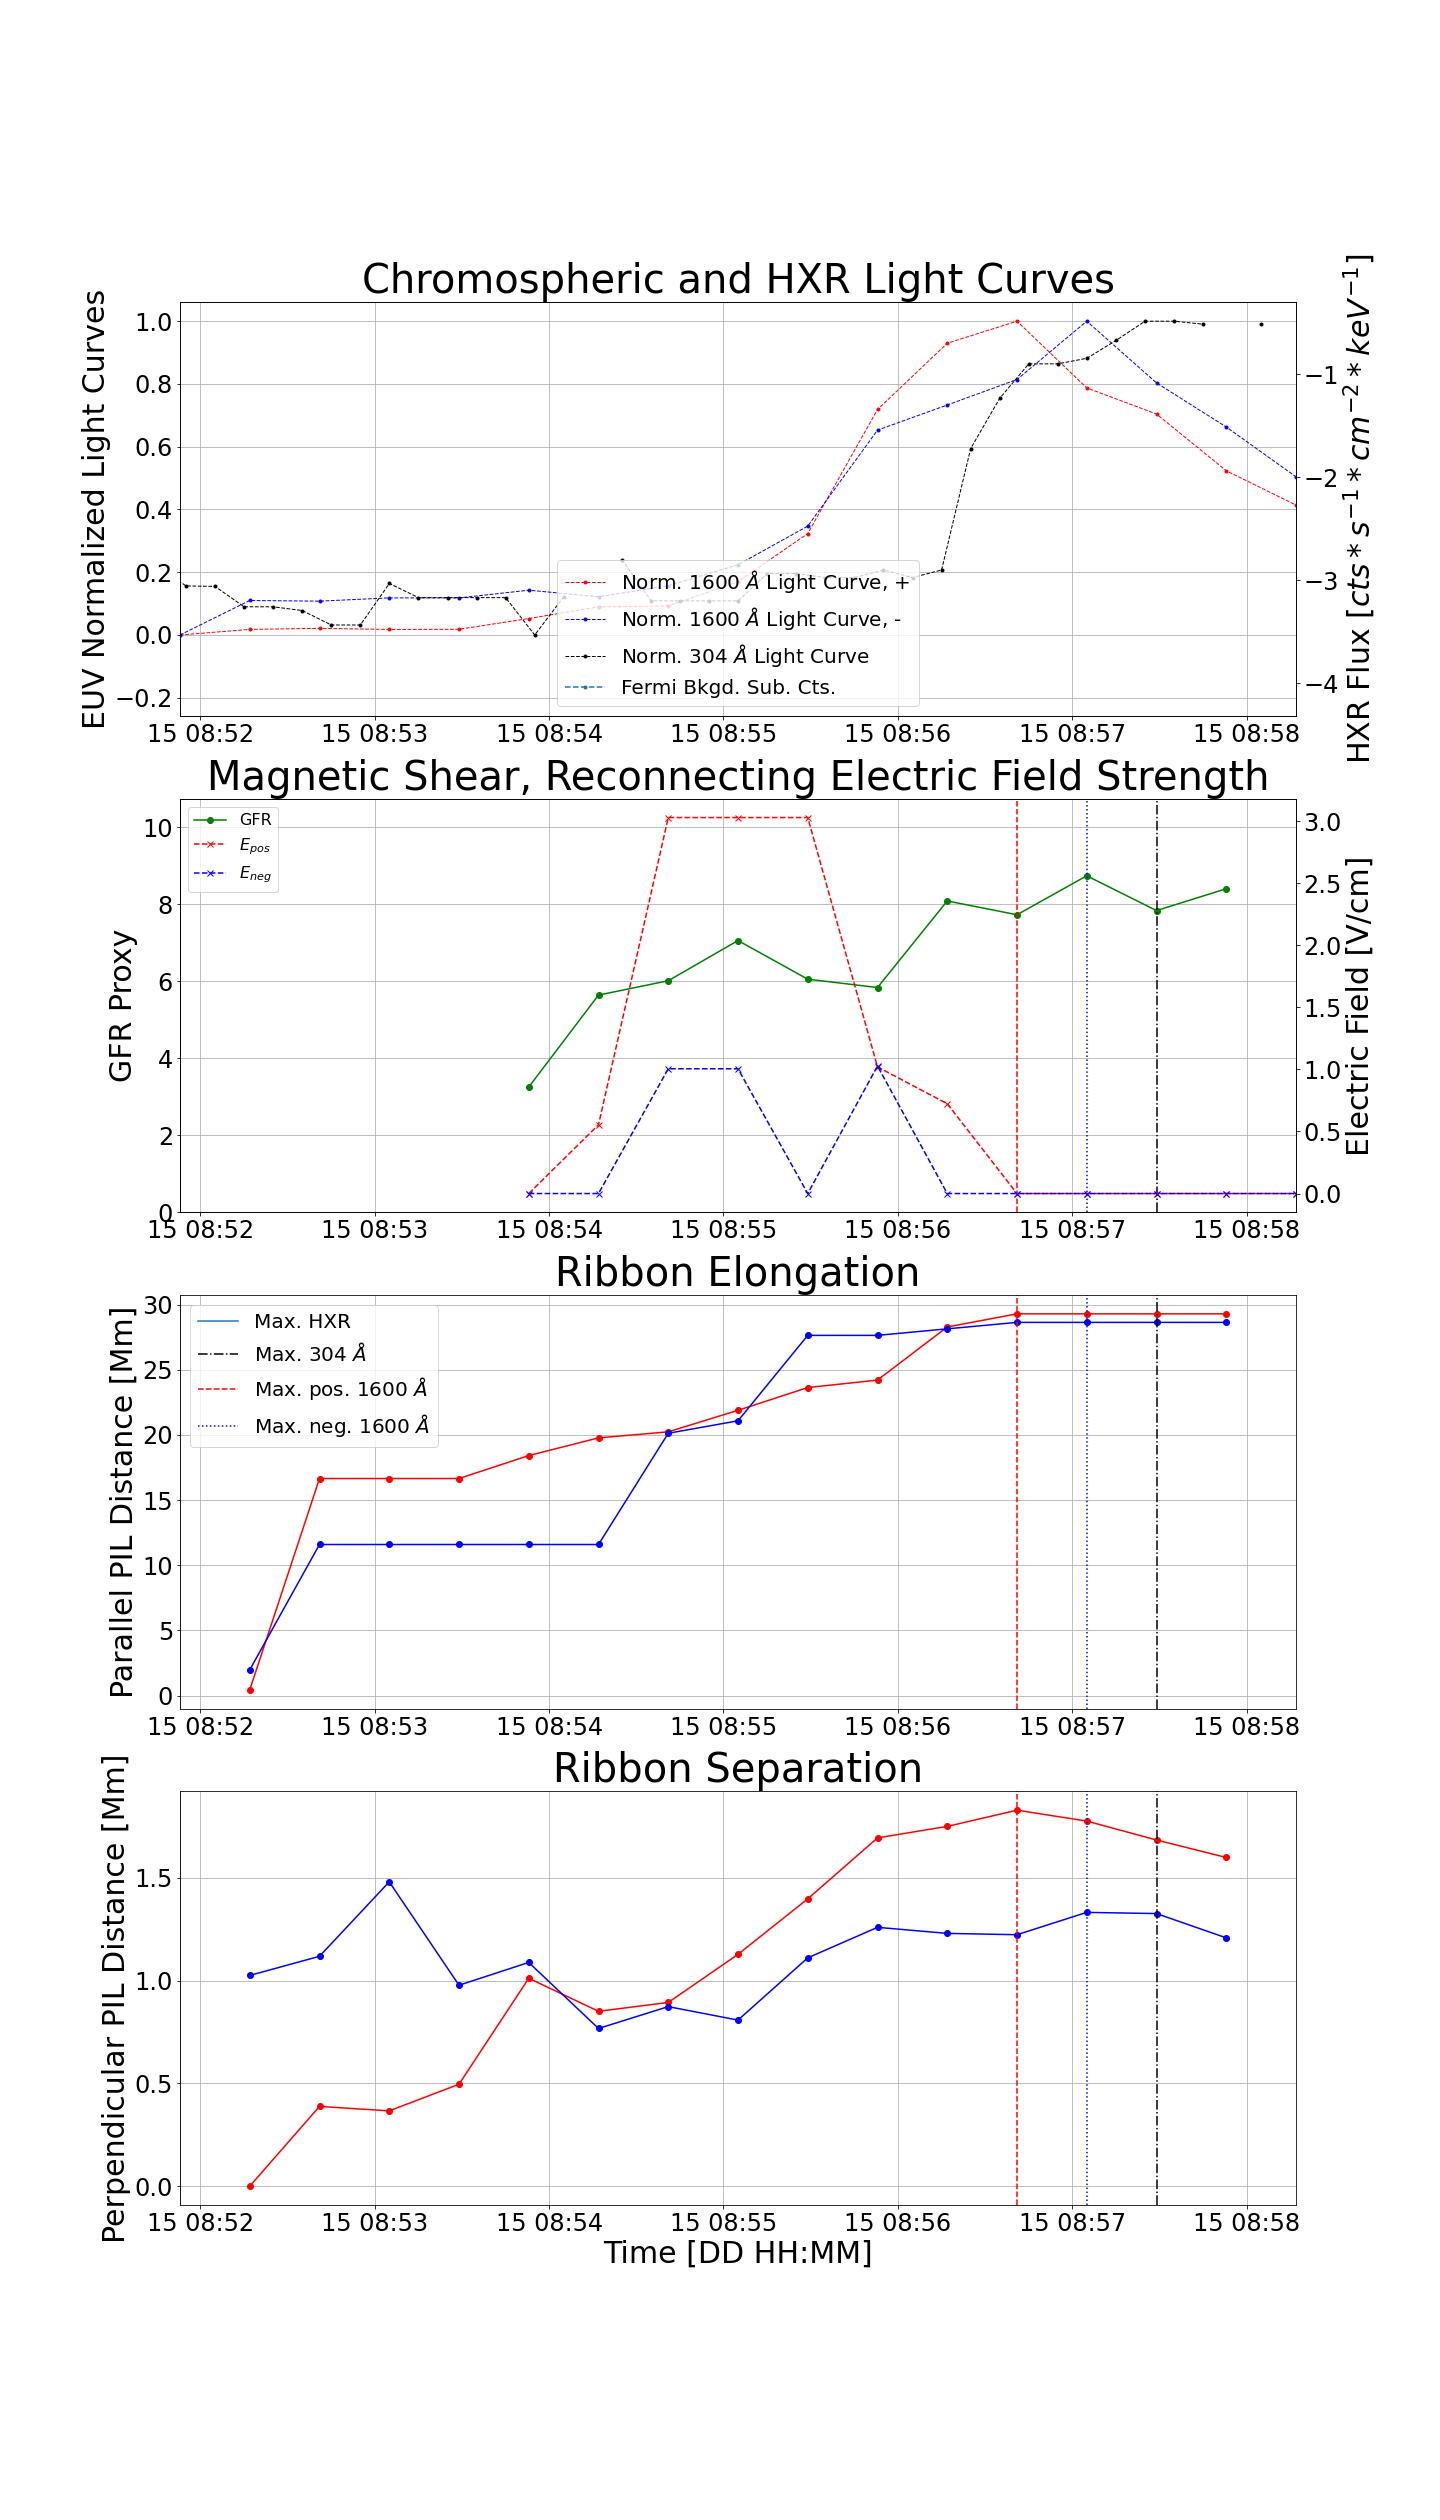
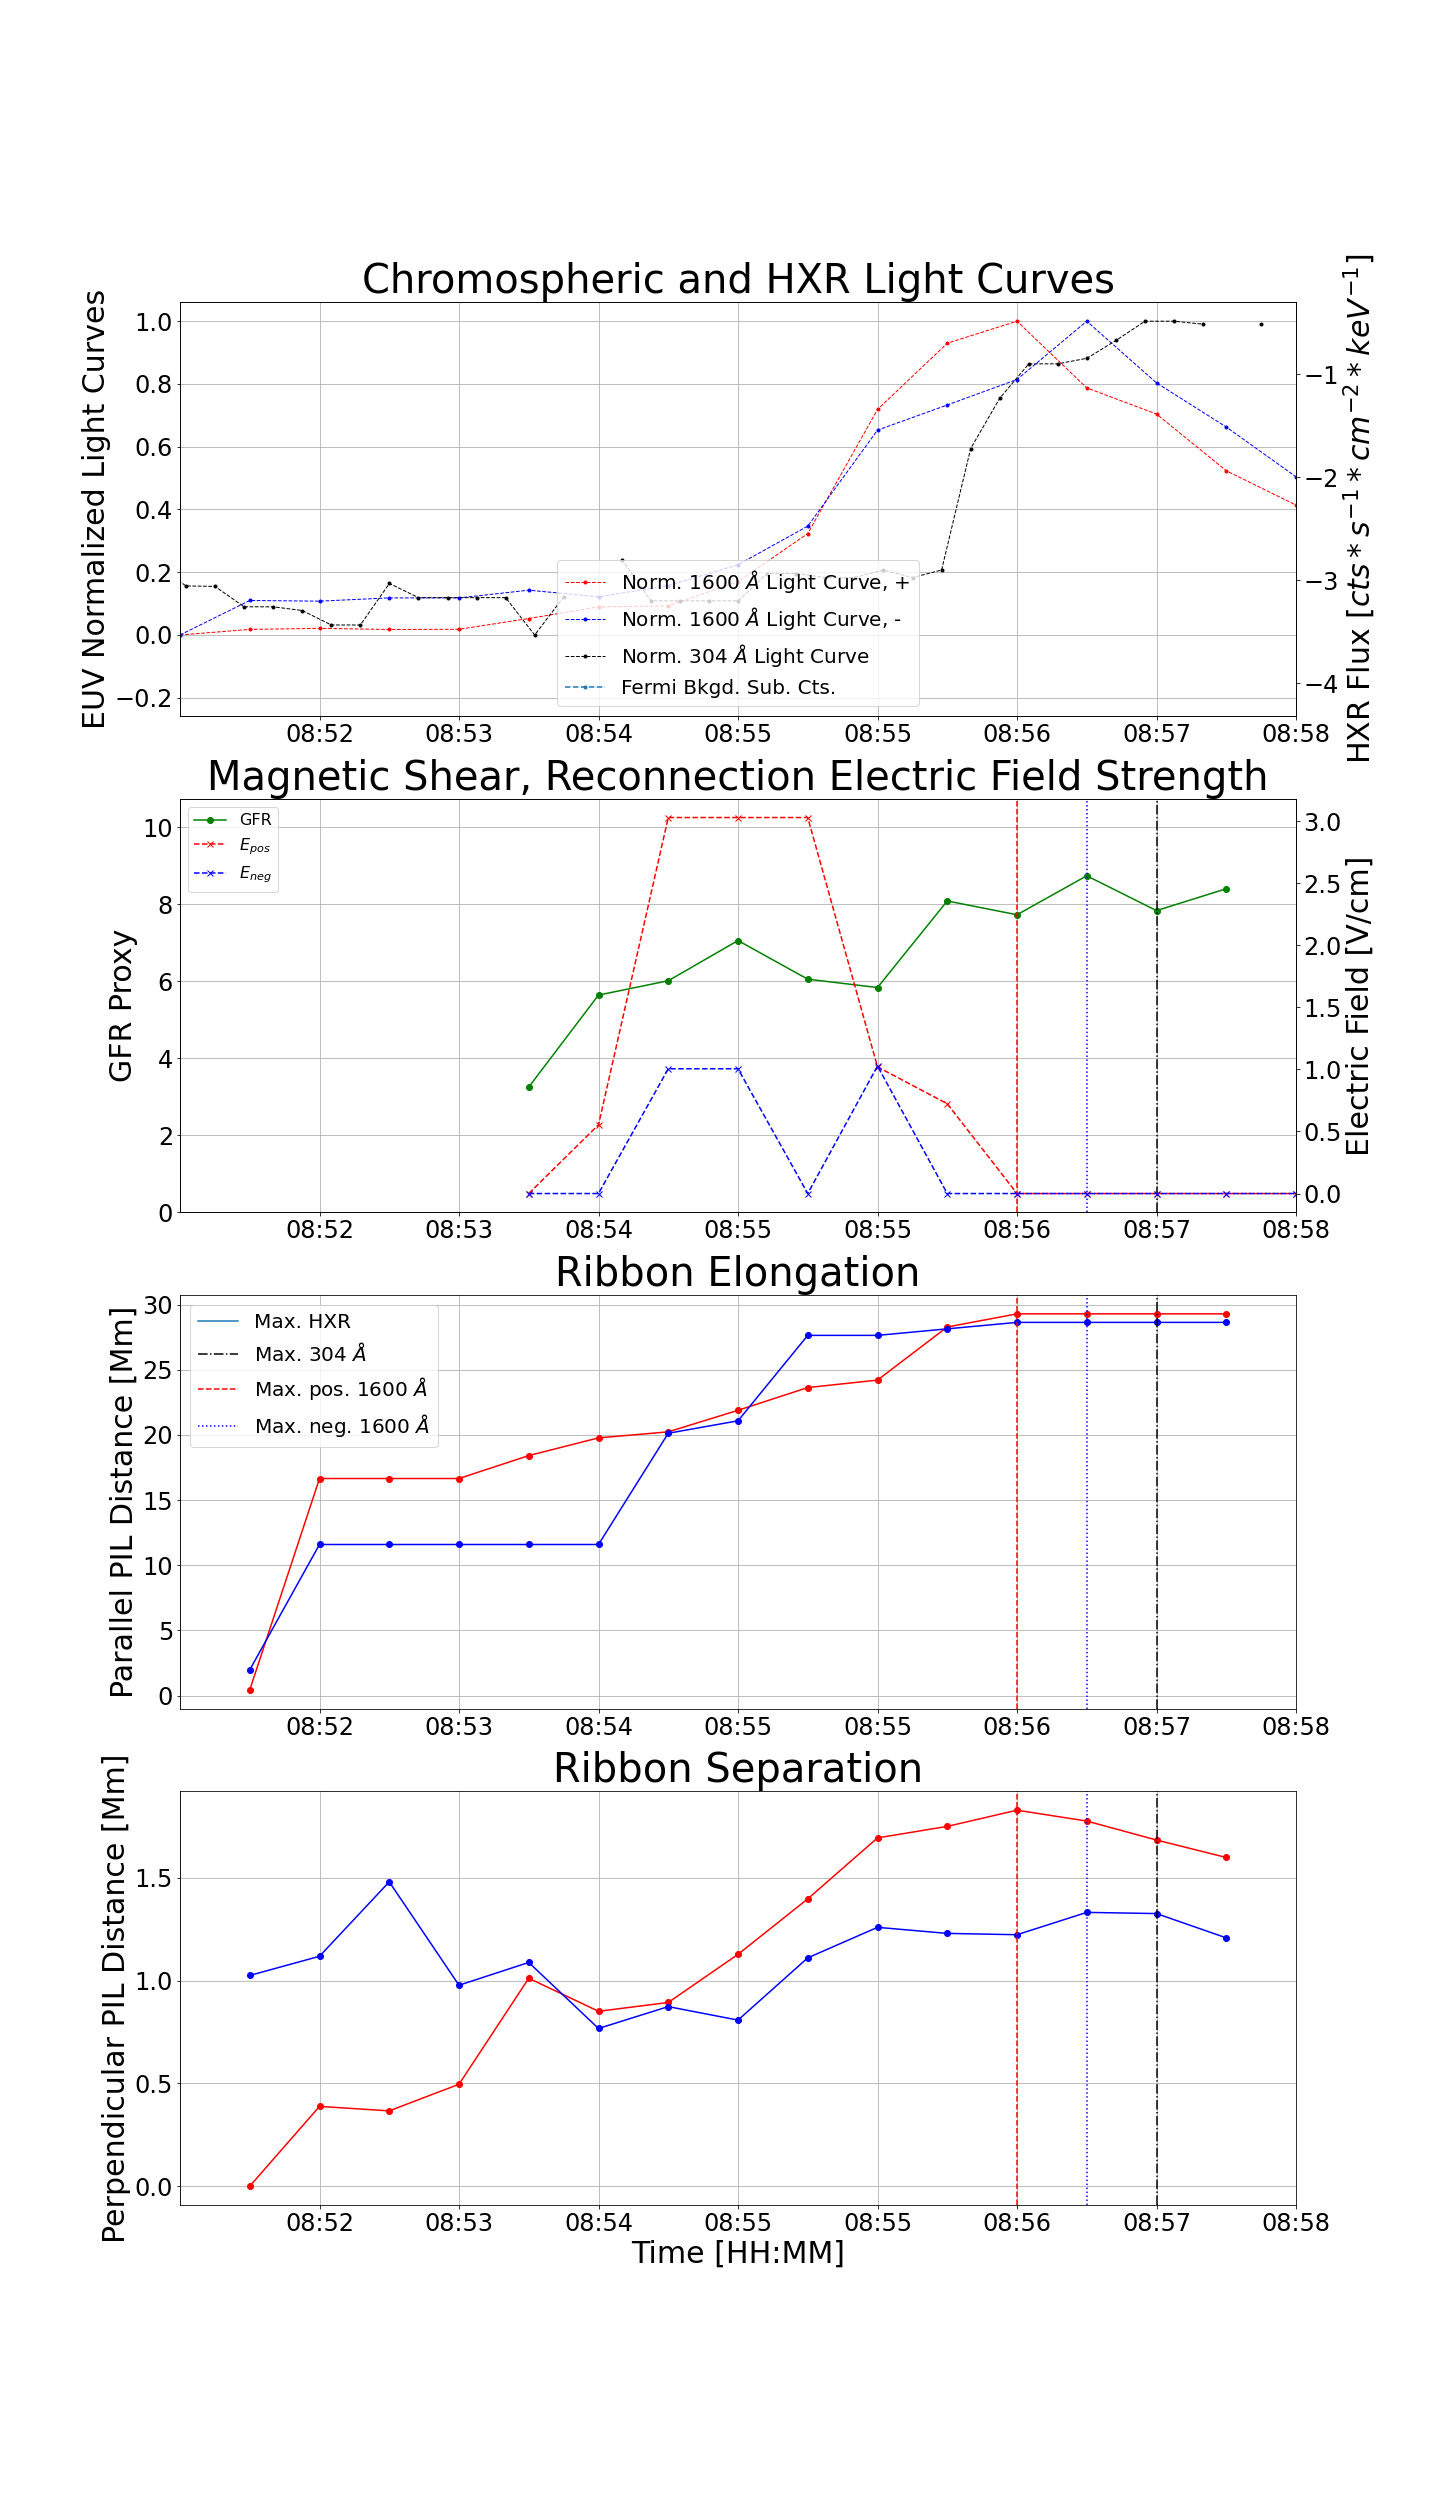
low2 script edits

diff --git a/low2_process.py b/low2_process.py
@@ -320,7 +320,7 @@ fl_funcs.plt_fourpanel(times, right_gfr, left_gfr, flnum, dt1600, time304,
                   s304, e304, pos1600, neg1600, dn1600, indstrt_elon, 
                   indstrt_sep, fermitimes, raw_hxr_sum, cspec_hxr_sum,
                   gfr_trans, E_pos, E_neg, time_E, low_hxr=6100, 
-                  high_hxr=7200,  period_flag = 0)
+                  high_hxr=7200,  period_flag = 0, tick_space = 16)
 
 file='low2shear'
 
